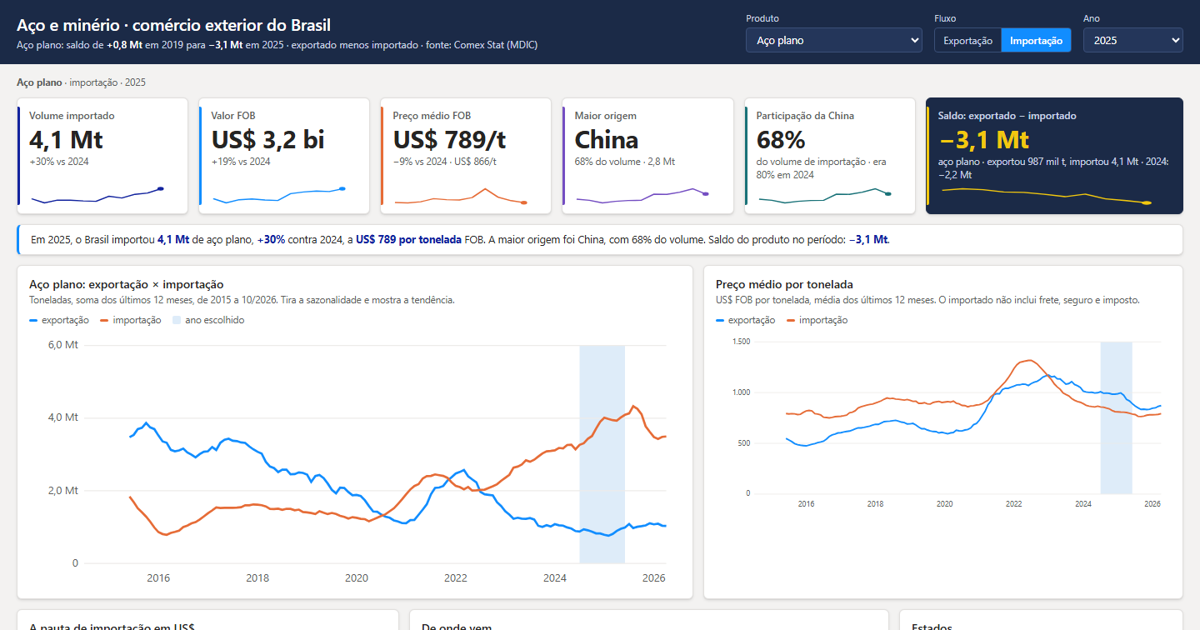
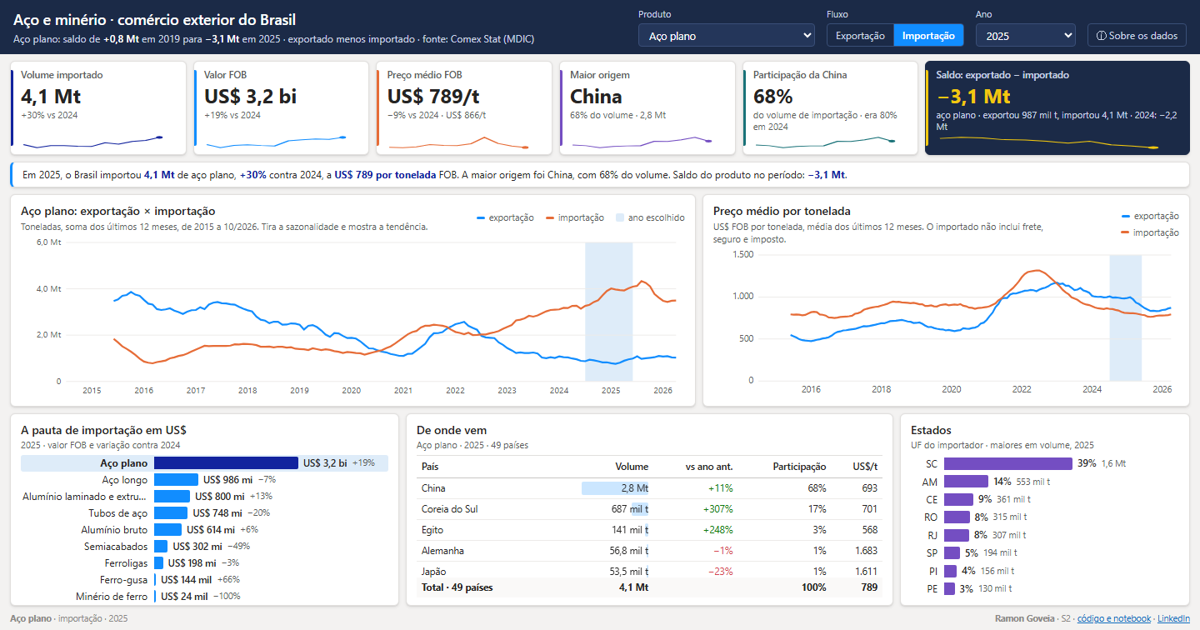
Painel em tela única (sem rolagem no computador) e botão Sobre os dados

diff --git a/painel/index.html b/painel/index.html
@@ -11,24 +11,53 @@
 <meta property="og:type" content="website">
 <link rel="stylesheet" href="tema.css">
 <style>
-  .v-serie{grid-column:span 7}.v-preco{grid-column:span 5}.v-pauta{grid-column:span 4}.v-paises{grid-column:span 5;display:flex;flex-direction:column}.v-ufs{grid-column:span 3}
-  @media(max-width:1180px){.v-serie,.v-preco{grid-column:1/-1}.v-pauta,.v-ufs{grid-column:span 6}.v-paises{grid-column:1/-1}}
+  /* ── Tela única, estilo Power BI: tudo cabe na janela no computador ── */
+  .faixa-in{max-width:none;padding:9px 16px;gap:8px 20px}.faixa h1{font-size:18px}
+  .slicer select{height:28px}.botoes{height:28px}
+  .info{background:transparent;border:1px solid #3a4f78;color:var(--faixa-texto);border-radius:4px;height:28px;padding:0 10px;font-size:12px}
+  .info:hover{background:var(--faixa-2);color:#fff}
+  main.tela{max-width:none;width:100%;margin:0;padding:8px 12px 6px;display:flex;flex-direction:column;gap:8px}
+  .kpis,.readout,.rodape,.faixa{flex:none}
+  .kpis{margin:0;gap:8px}.kpi{padding:8px 12px 6px}.kpi label{font-size:11.5px}.kpi strong{font-size:clamp(20px,1.7vw,27px)}
+  .kpi small{font-size:11px;line-height:1.3}.kpi svg{height:18px;padding-top:2px}
+  .readout{margin:0;padding:6px 12px;font-size:12px}
+  .grid{gap:8px}
+  .panel{padding:9px 12px;display:flex;flex-direction:column;min-height:0}
+  .panel-head{margin-bottom:4px;align-items:center}.panel-head p{font-size:11px}
+  .legend{margin:0;font-size:11px;justify-content:flex-end}
+  .chart{position:relative;flex:1 1 auto;min-height:220px}.chart svg{position:absolute;inset:0;width:100%;height:100%}
+  .v-serie{grid-column:span 7}.v-preco{grid-column:span 5}.v-pauta{grid-column:span 4}.v-paises{grid-column:span 5}.v-ufs{grid-column:span 3}
+  .rodape{display:flex;justify-content:space-between;gap:10px;font-size:10.5px;color:var(--apoio)}
+  @media(min-width:1100px) and (min-height:640px){
+    html,body{height:100%;overflow:hidden}
+    body{display:flex;flex-direction:column}
+    main.tela{flex:1 1 auto;min-height:0}
+    .grid{flex:1 1 auto;min-height:0;grid-template-rows:minmax(0,1.1fr) minmax(0,1fr)}
+    .chart{min-height:0}
+    .readout{white-space:nowrap;overflow:hidden;text-overflow:ellipsis}
+  }
+  @media(max-width:1099px){.v-serie,.v-preco,.v-paises{grid-column:1/-1}.v-pauta,.v-ufs{grid-column:span 6}.tabela-box{max-height:360px}}
   @media(max-width:760px){.v-pauta,.v-ufs{grid-column:1/-1}}
-  .barras .linha{display:grid;grid-template-columns:150px minmax(0,1fr);gap:8px;align-items:center;width:100%;padding:3px 2px;border:0;background:transparent;text-align:left;border-radius:3px}
+  .lista{flex:1 1 auto;min-height:0;display:flex;flex-direction:column;justify-content:space-around}
+  .barras .linha{display:grid;grid-template-columns:150px minmax(0,1fr);gap:8px;align-items:center;width:100%;padding:1px 2px;border:0;background:transparent;text-align:left;border-radius:3px}
   @media(max-width:560px){.barras .linha{grid-template-columns:104px minmax(0,1fr)}}
-  .barras.estreito .linha{grid-template-columns:44px minmax(0,1fr)}
+  .barras.estreito .linha{grid-template-columns:30px minmax(0,1fr)}
   .barras .linha:hover{background:#f3f2f1}.barras .linha.sel{background:var(--sel)}
   .barras .n{font-size:12px;color:var(--texto);white-space:nowrap;overflow:hidden;text-overflow:ellipsis;text-align:right}.barras .linha.sel .n{font-weight:700}
-  .barras .trilho{display:flex;align-items:center;gap:6px;height:20px;min-width:0}.barras .trilho i{display:block;height:17px;border-radius:0 2px 2px 0;min-width:2px;flex:none}
+  .barras .trilho{display:flex;align-items:center;gap:6px;height:18px;min-width:0}.barras .trilho i{display:block;height:15px;border-radius:0 2px 2px 0;min-width:2px;flex:none}
   .barras .trilho b{font-size:11.5px;font-weight:600;white-space:nowrap;color:var(--texto)}.barras .trilho em{font-style:normal;font-size:10.5px;color:var(--texto-2);white-space:nowrap}
-  .tabela-box{overflow:auto;max-height:380px;flex:1 1 auto;border-top:1px solid var(--borda)}
+  .tabela-box{overflow:auto;flex:1 1 auto;min-height:0;border-top:1px solid var(--borda)}
+  table{font-size:11.5px}th{padding:5px 6px}td{padding:4px 6px}
   tbody tr{cursor:pointer}tbody tr:hover{background:#f3f2f1}tbody tr.sel{background:var(--sel)}
-  td.barra-cel{position:relative;min-width:92px}td.barra-cel i{position:absolute;right:6px;top:5px;bottom:5px;background:rgba(17,141,255,.22);border-radius:2px}td.barra-cel span{position:relative}
+  td.barra-cel{position:relative;min-width:92px}td.barra-cel i{position:absolute;right:6px;top:4px;bottom:4px;background:rgba(17,141,255,.22);border-radius:2px}td.barra-cel span{position:relative}
   td:first-child{max-width:170px;overflow:hidden;text-overflow:ellipsis}
+  tfoot td{position:sticky;bottom:0;font-weight:700;border-top:1px solid var(--borda-forte);background:#faf9f8}
   .sobe{color:#107c10}.desce{color:var(--ruim)}
-  tfoot td{font-weight:700;border-top:1px solid var(--borda-forte);background:#faf9f8}
-  .chip{display:inline-flex;align-items:center;gap:6px;background:var(--sel);color:var(--azul-esc);border-radius:12px;padding:2px 4px 2px 10px;font-size:11.5px;font-weight:600}
+  .chip{display:inline-flex;align-items:center;gap:6px;background:var(--sel);color:var(--azul-esc);border-radius:12px;padding:2px 4px 2px 10px;font-size:11.5px;font-weight:600;white-space:nowrap}
   .chip button{border:0;background:#fff;border-radius:50%;width:18px;height:18px;line-height:16px;color:var(--azul-esc);font-weight:700}
+  dialog{border:0;border-radius:8px;max-width:760px;width:calc(100% - 32px);padding:18px 22px;box-shadow:0 10px 40px rgba(0,0,0,.25);color:var(--texto)}
+  dialog::backdrop{background:rgba(27,42,71,.45)}dialog h2{font-size:16px;margin-bottom:6px}dialog .method{padding-left:18px}
+  dialog form{text-align:right;margin-top:10px}dialog form button{background:var(--azul);color:#fff;border:0;border-radius:4px;padding:6px 14px;font-weight:600}
 </style>
 </head>
 <body>
@@ -42,11 +71,11 @@
       <div class="slicer"><label for="fProd">Produto</label><select id="fProd"></select></div>
       <div class="slicer"><span class="cab">Fluxo</span><div class="botoes" id="fFlx"><button type="button" data-f="0" aria-pressed="false">Exportação</button><button type="button" data-f="1" aria-pressed="true">Importação</button></div></div>
       <div class="slicer"><label for="fAno">Ano</label><select id="fAno" style="min-width:120px"></select></div>
+      <div class="slicer"><button type="button" class="info" id="btnSobre">ⓘ Sobre os dados</button></div>
     </div>
   </div>
 </header>
 <main class="tela">
-  <div class="scope" id="escopo">—</div>
   <section class="kpis" aria-live="polite">
     <div class="kpi k-azul"><label id="kVolRot">Volume</label><strong id="kVol">—</strong><small id="kVolTxt">—</small><svg id="sVol" viewBox="0 0 120 26" preserveAspectRatio="none" aria-hidden="true"></svg></div>
     <div class="kpi k-dourado"><label>Valor FOB</label><strong id="kFob">—</strong><small id="kFobTxt">—</small><svg id="sFob" viewBox="0 0 120 26" preserveAspectRatio="none" aria-hidden="true"></svg></div>
@@ -55,32 +84,35 @@
     <div class="kpi k-verde"><label>Participação da China</label><strong id="kChi">—</strong><small id="kChiTxt">—</small><svg id="sChi" viewBox="0 0 120 26" preserveAspectRatio="none" aria-hidden="true"></svg></div>
     <div class="kpi k-marinho"><label>Saldo: exportado − importado</label><strong id="kSal">—</strong><small id="kSalTxt">—</small><svg id="sSal" viewBox="0 0 120 26" preserveAspectRatio="none" aria-hidden="true"></svg></div>
   </section>
-  <div class="readout"><span>LEITURA</span><div id="leitura">—</div></div>
+  <div class="readout" id="leitura">—</div>
   <div class="grid">
-    <section class="panel v-serie"><div class="panel-head"><div><h2 id="tSerie">Exportação × importação</h2><p id="serieSub">—</p></div></div>
-      <div class="legend"><span><i style="background:#118dff;height:3px"></i>exportação</span><span><i style="background:#e66c37;height:3px"></i>importação</span><span><i style="background:#deecf9"></i>ano escolhido</span></div>
-      <svg id="svgSerie" role="img" aria-label="Volume exportado e importado, soma móvel de 12 meses"></svg></section>
-    <section class="panel v-preco"><div class="panel-head"><div><h2>Preço médio por tonelada</h2><p id="precoSub">—</p></div></div>
-      <div class="legend"><span><i style="background:#118dff;height:3px"></i>exportação</span><span><i style="background:#e66c37;height:3px"></i>importação</span></div>
-      <svg id="svgPreco" role="img" aria-label="Preço médio FOB por tonelada, média móvel de 12 meses"></svg></section>
+    <section class="panel v-serie"><div class="panel-head"><div><h2 id="tSerie">Exportação × importação</h2><p id="serieSub">—</p></div>
+      <div class="legend"><span><i style="background:#118dff;height:3px"></i>exportação</span><span><i style="background:#e66c37;height:3px"></i>importação</span><span><i style="background:#deecf9"></i>ano escolhido</span></div></div>
+      <div class="chart"><svg id="svgSerie" role="img" aria-label="Volume exportado e importado, soma móvel de 12 meses"></svg></div></section>
+    <section class="panel v-preco"><div class="panel-head"><div><h2>Preço médio por tonelada</h2><p id="precoSub">—</p></div>
+      <div class="legend"><span><i style="background:#118dff;height:3px"></i>exportação</span><span><i style="background:#e66c37;height:3px"></i>importação</span></div></div>
+      <div class="chart"><svg id="svgPreco" role="img" aria-label="Preço médio FOB por tonelada, média móvel de 12 meses"></svg></div></section>
     <section class="panel v-pauta"><div class="panel-head"><div><h2 id="tPauta">A pauta em US$</h2><p id="pautaSub">—</p></div></div>
-      <div class="barras" id="pauta"></div>
-      <div class="panel-foot">Clique num produto para escolher. Toneladas de produtos diferentes não se somam; o valor sim.</div></section>
+      <div class="barras lista" id="pauta"></div></section>
     <section class="panel v-paises"><div class="panel-head"><div><h2 id="tPaises">Países</h2><p id="paisesSub">—</p></div><div id="chipPais"></div></div>
-      <div class="tabela-box"><table><thead><tr><th>País</th><th>Volume</th><th>vs ano ant.</th><th>Participação</th><th>US$/t</th></tr></thead><tbody id="tPaisCorpo"></tbody><tfoot id="tPaisTotal"></tfoot></table></div>
-      <div class="panel-foot">Clique num país para filtrar os indicadores e os gráficos. Clique de novo para voltar ao total.</div></section>
+      <div class="tabela-box"><table><thead><tr><th>País</th><th>Volume</th><th>vs ano ant.</th><th>Participação</th><th>US$/t</th></tr></thead><tbody id="tPaisCorpo"></tbody><tfoot id="tPaisTotal"></tfoot></table></div></section>
     <section class="panel v-ufs"><div class="panel-head"><div><h2>Estados</h2><p id="ufSub">—</p></div></div>
-      <div class="barras estreito" id="ufs"></div></section>
+      <div class="barras estreito lista" id="ufs"></div></section>
   </div>
-  <details><summary>Como funciona — e o que este painel não permite afirmar</summary><ul class="method">
-    <li><b>Fonte:</b> Comex Stat, do Ministério do Desenvolvimento, Indústria, Comércio e Serviços (MDIC), pela API oficial. Exportação e importação mensal de janeiro de 2015 a outubro de 2026, por posição SH4, país e estado. Volume em toneladas líquidas, valor em US$ FOB.</li>
-    <li><b>Produtos:</b> 30 posições SH4 agrupadas em 9 produtos. Aço plano = 7208 a 7212, 7219, 7220, 7225 e 7226 (laminados planos, inclusive inox e ligados). Aço longo = 7213 a 7217, 7221, 7222, 7227 e 7228. Tubos = 7304 a 7306. Alumínio laminado e extrudado = 7604 a 7607.</li>
-    <li><b>2026 vai até outubro.</b> Com 2026 escolhido, todas as comparações usam janeiro a outubro dos dois anos.</li>
-    <li><b>FOB não é o preço posto na fábrica.</b> No importado faltam frete, seguro, imposto de importação e internação. O preço médio do grupo também muda com a mistura de produtos.</li>
-    <li><b>O dado mostra o quê, não o porquê.</b> Mudanças de volume e de origem coincidem com defesa comercial, câmbio e preço internacional, mas este dado não separa as causas. País é a origem declarada; aço revestido num terceiro país aparece com a origem desse país.</li>
-    <li><b>Comércio exterior não é consumo.</b> Para a fatia do importado no mercado brasileiro faltam a produção e as vendas internas, que não estão nesta base. Estado é a UF do produto (produtor na exportação, importador na importação).</li></ul></details>
-  <footer><span><b>Ramon Goveia</b> · Dados aplicados ao mercado da indústria pesada</span><span>S2 · <a href="https://github.com/GoveiaDev/s2-aco-minerio-comercio-exterior">Código, notebook e limitações</a> · <a href="https://www.linkedin.com/in/ramon-goveia-92266443">LinkedIn</a></span></footer>
+  <div class="rodape"><span id="escopo">—</span><span><b>Ramon Goveia</b> · S2 · <a href="https://github.com/GoveiaDev/s2-aco-minerio-comercio-exterior">código e notebook</a> · <a href="https://www.linkedin.com/in/ramon-goveia-92266443">LinkedIn</a></span></div>
 </main>
+<dialog id="sobre" aria-labelledby="sobreTit">
+  <h2 id="sobreTit">Como funciona — e o que este painel não permite afirmar</h2>
+  <ul class="method">
+    <li><b>Fonte:</b> Comex Stat, do Ministério do Desenvolvimento, Indústria, Comércio e Serviços (MDIC), pela API oficial. Exportação e importação mensal de janeiro de 2015 a outubro de 2026, por posição SH4, país e estado. Volume em toneladas líquidas, valor em US$ FOB.</li>
+    <li><b>Produtos:</b> 30 posições SH4 em 9 produtos. Aço plano = 7208 a 7212, 7219, 7220, 7225 e 7226. Aço longo = 7213 a 7217, 7221, 7222, 7227 e 7228. Tubos = 7304 a 7306. Alumínio laminado e extrudado = 7604 a 7607.</li>
+    <li><b>2026 vai até outubro.</b> Com 2026 escolhido, as comparações usam janeiro a outubro dos dois anos.</li>
+    <li><b>FOB não é o preço posto na fábrica.</b> No importado faltam frete, seguro, imposto de importação e internação. O preço médio do grupo também muda com a mistura de produtos.</li>
+    <li><b>O dado mostra o quê, não o porquê.</b> Volume e origem mudam com defesa comercial, câmbio e preço internacional ao mesmo tempo. País é a origem declarada; aço revestido num terceiro país aparece com a origem desse país.</li>
+    <li><b>Comércio exterior não é consumo.</b> Para a fatia do importado no mercado brasileiro faltam produção e vendas internas. Estado é a UF do produto: produtor na exportação, importador na importação.</li>
+    <li><b>Autor:</b> Ramon Goveia · dados aplicados ao mercado da indústria pesada · <a href="https://github.com/GoveiaDev/s2-aco-minerio-comercio-exterior">código, notebook e limitações</a>.</li></ul>
+  <form method="dialog"><button>Fechar</button></form>
+</dialog>
 <div class="tooltip" id="dica" role="tooltip"></div>
 <script src="dados.js"></script>
 <script src="app.js"></script>

diff --git a/painel/app.js b/painel/app.js
@@ -97,7 +97,7 @@
     const ord = [...loc.entries()].filter(([, x]) => x.t > 0).sort((x, y) => y[1].t - x[1].t);
     if (c >= 0) {
       const x = loc.get(c) || { t: 0 }, pos = ord.findIndex(([k]) => k === c) + 1;
-      $('kTopRot').textContent = `Participação de ${nomeC}`;
+      $('kTopRot').textContent = `Participação · ${nomeC}`;
       $('kTop').textContent = totT ? pp(x.t / totT) : '—';
       $('kTopTxt').textContent = pos ? `${pos}º ${parceiro(f)} em volume · de ${ord.length} países` : `sem ${nomeFlx(f)} no período`;
       spark('sTop', serieAno(j => { const tt = soma(IP, f, p, j).t; return tt ? soma(IP, f, p, j, c).t / tt : null; }), '#744ec2', anoIdx);
@@ -121,7 +121,7 @@
     spark('sSal', serieAno(j => soma(IP, 0, p, j, c).t - soma(IP, 1, p, j, c).t), '#f2c80f', anoIdx);
 
     // leitura
-    let txt = `Em ${rotPer(a)}, o Brasil ${f ? 'importou' : 'exportou'} <b>${ton(atual.t)}</b> de ${prod.toLowerCase()}${nomeC ? (f ? ' de ' : ' para ') + nomeC : ''}`;
+    let txt = `Em ${rotPer(a)}, o Brasil ${f ? 'importou' : 'exportou'} <b>${ton(atual.t)}</b> de ${prod.toLowerCase()}${nomeC ? (f ? ' (origem: ' : ' (destino: ') + nomeC + ')' : ''}`;
     if (ant && ant.t > 0) txt += `, <b>${pct(atual.t / ant.t - 1)}</b> contra ${a === UA ? 'o mesmo período de ' : ''}${a - 1}`;
     if (pr) txt += `, a <b>US$ ${nf(pr)} por tonelada</b> FOB`;
     txt += '.';
@@ -135,7 +135,8 @@
   // ---------- séries ----------
   function rolar(arr, k = 12) { const o = new Array(arr.length).fill(null); let s = 0; for (let i = 0; i < arr.length; i++) { s += arr[i]; if (i >= k) s -= arr[i - k]; if (i >= k - 1) o[i] = s; } return o; }
   function grafico(id, series, { fmt, titulo }) {
-    const W = 640, H = 250, m = { l: 54, r: 14, t: 12, b: 24 };
+    const el = $(id), box = el.parentNode.getBoundingClientRect();
+    const W = Math.max(280, Math.round(box.width)), H = Math.max(150, Math.round(box.height)), m = { l: 54, r: 10, t: 8, b: 20 };
     const vals = series.flatMap(s => s.v).filter(v => v != null && isFinite(v));
     let mx = Math.max(...vals, 0), mn = Math.min(...vals, 0);
     const passo = (() => { const r = (mx - mn) / 4, e = Math.pow(10, Math.floor(Math.log10(r || 1))), n = r / e; return (n <= 1 ? 1 : n <= 2 ? 2 : n <= 5 ? 5 : 10) * e; })();
@@ -145,14 +146,14 @@
     const a0 = (st.ano - A0) * 12, a1 = a0 + meses(st.ano) - 1;
     g += `<rect x="${X(a0)}" y="${m.t}" width="${Math.max(2, X(a1) - X(a0))}" height="${H - m.t - m.b}" fill="#deecf9"/>`;
     for (let v = mn; v <= mx + passo / 2; v += passo) g += `<line class="rule" x1="${m.l}" x2="${W - m.r}" y1="${Y(v)}" y2="${Y(v)}"/><text class="axis" x="${m.l - 6}" y="${Y(v) + 3}" text-anchor="end">${fmt(v)}</text>`;
-    for (let y = A0; y <= UA; y++) if ((y - A0) % 2 === 1) g += `<text class="axis" x="${X((y - A0) * 12 + 6)}" y="${H - 6}" text-anchor="middle">${y}</text>`;
+    const pulo = W > 560 ? 1 : 2; for (let y = A0; y <= UA; y++) if ((y - A0) % pulo === (pulo - 1)) g += `<text class="axis" x="${X((y - A0) * 12 + 6)}" y="${H - 6}" text-anchor="middle">${y}</text>`;
     for (const s of series) {
       let d = '', pen = false;
       s.v.forEach((v, i) => { if (v == null || !isFinite(v)) { pen = false; return; } d += (pen ? 'L' : 'M') + X(i).toFixed(1) + ',' + Y(v).toFixed(1); pen = true; });
       g += `<path d="${d}" fill="none" stroke="${s.cor}" stroke-width="2.2"/>`;
     }
     g += `<rect id="${id}Hit" x="${m.l}" y="${m.t}" width="${W - m.l - m.r}" height="${H - m.t - m.b}" fill="transparent"/><line id="${id}Cur" y1="${m.t}" y2="${H - m.b}" stroke="#605e5c" stroke-dasharray="2 3" opacity="0"/>`;
-    const el = $(id); el.setAttribute('viewBox', `0 0 ${W} ${H}`); el.innerHTML = g;
+    el.setAttribute('viewBox', `0 0 ${W} ${H}`); el.innerHTML = g;
     const hit = $(id + 'Hit'), cur = $(id + 'Cur');
     hit.onmousemove = e => {
       const r = el.getBoundingClientRect(), x = (e.clientX - r.left) / r.width * W, i = Math.max(0, Math.min(NM - 1, Math.round((x - m.l) / (W - m.l - m.r) * (NM - 1))));
@@ -188,7 +189,7 @@
   function renderPaises(loc, totT, Jant, temAnt) {
     const f = st.flx, p = st.prod;
     $('tPaises').textContent = f ? 'De onde vem' : 'Para onde vai';
-    $('paisesSub').textContent = `${P[p]} · ${rotPer(st.ano)} · ${loc.size} países`;
+    $('paisesSub').textContent = `${P[p]} · ${rotPer(st.ano)} · ${[...loc.values()].filter(x => x.t > 0).length} países`;
     $('chipPais').innerHTML = st.pais >= 0 ? `<span class="chip">${D.paises[st.pais]}<button type="button" aria-label="Limpar país" id="limpaPais">×</button></span>` : '';
     if (st.pais >= 0) $('limpaPais').onclick = () => { st.pais = -1; render(); };
     const antL = temAnt ? porLocal(IP, f, p, Jant) : new Map();
@@ -201,14 +202,21 @@
     $('tPaisTotal').innerHTML = totT ? `<tr><td>Total · ${ord.length} países</td><td>${ton(totT)}</td><td></td><td>100%</td><td>${nf(preco(totV, totT))}</td></tr>` : '';
     $('tPaisCorpo').querySelectorAll('tr[data-k]').forEach(tr => tr.onclick = () => { const k = +tr.dataset.k; st.pais = st.pais === k ? -1 : k; render(); });
   }
+  function aparar(el) { // tela única: mostra só as linhas que cabem
+    while (el.children.length > 3 && el.scrollHeight > el.clientHeight + 1) el.lastElementChild.remove();
+  }
   function renderUfs(J) {
     const f = st.flx, loc = porLocal(IU, f, st.prod, J);
-    $('ufSub').textContent = `${f ? 'UF do importador' : 'UF produtora'} · volume em ${rotPer(st.ano)} · 10 maiores`;
+    $('ufSub').textContent = `${f ? 'UF do importador' : 'UF produtora'} · maiores em volume, ${rotPer(st.ano)}`;
     const tot = [...loc.values()].reduce((s, x) => s + x.t, 0);
     const ord = [...loc.entries()].filter(([, x]) => x.t > 0).sort((x, y) => y[1].t - x[1].t).slice(0, 10), mx = ord.length ? ord[0][1].t : 1;
     const sig = n => ({ 'Minas Gerais': 'MG', 'São Paulo': 'SP', 'Rio de Janeiro': 'RJ', 'Espírito Santo': 'ES', 'Paraná': 'PR', 'Santa Catarina': 'SC', 'Rio Grande do Sul': 'RS', 'Bahia': 'BA', 'Pará': 'PA', 'Maranhão': 'MA', 'Ceará': 'CE', 'Pernambuco': 'PE', 'Goiás': 'GO', 'Mato Grosso': 'MT', 'Mato Grosso do Sul': 'MS', 'Amazonas': 'AM', 'Distrito Federal': 'DF', 'Paraíba': 'PB', 'Rio Grande do Norte': 'RN', 'Alagoas': 'AL', 'Sergipe': 'SE', 'Piauí': 'PI', 'Tocantins': 'TO', 'Rondônia': 'RO', 'Acre': 'AC', 'Amapá': 'AP', 'Roraima': 'RR' }[n] || n.slice(0, 6));
     $('ufs').innerHTML = ord.length ? ord.map(([k, x]) => `<div class="linha" title="${D.ufs[k]}"><span class="n">${sig(D.ufs[k])}</span><span class="trilho"><i style="width:${(x.t / mx * 55).toFixed(1)}%;background:#744ec2"></i><b>${pp(x.t / tot)}</b><em>${ton(x.t)}</em></span></div>`).join('') : '<div class="panel-foot">Sem dado no período.</div>';
+    aparar($('ufs'));
   }
 
+  $('btnSobre').onclick = () => $('sobre').showModal();
+  let tRes; addEventListener('resize', () => { clearTimeout(tRes); tRes = setTimeout(render, 120); });
   render();
+  window.PAINEL = { st, render };
 })();
